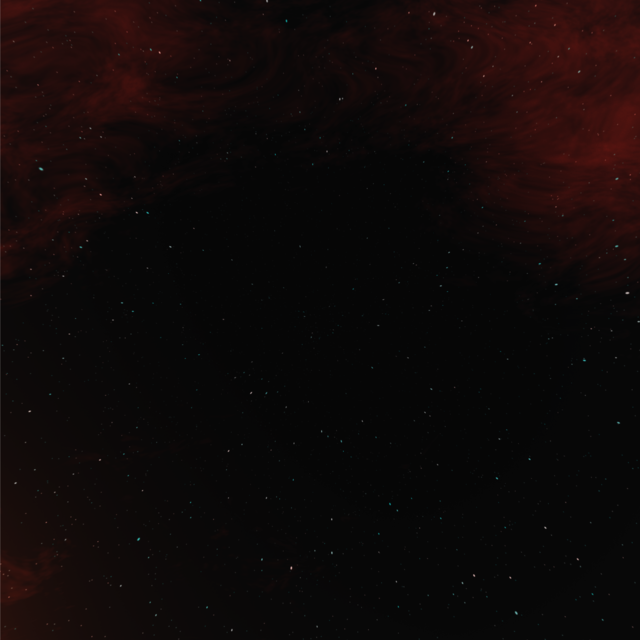
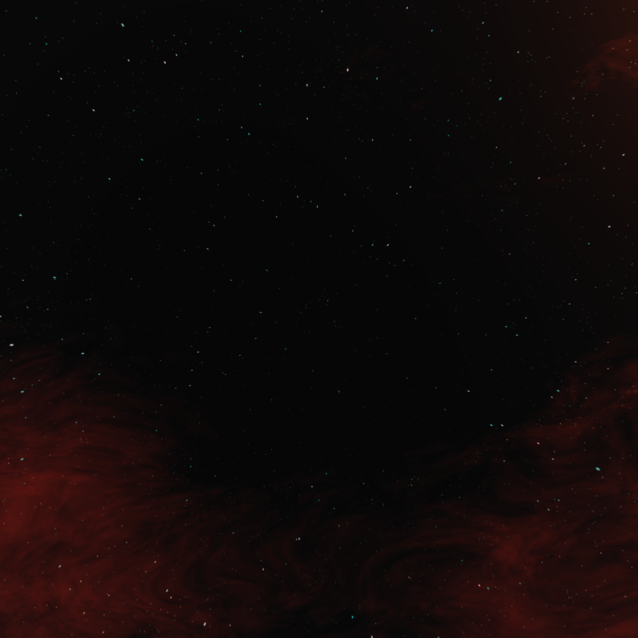
basic shadow cube map, very slow

diff --git a/Engine/src/ShadowMappingPass.h b/Engine/src/ShadowMappingPass.h
@@ -7,6 +7,9 @@
 #include "VertexShader.h"
 #include "NullPixelShader.h"
 #include "Camera.h"
+#include "ShadowRasterizer.h"
+#include "CubeTexture.h"
+#include "Viewport.h"
 namespace Rgph
 {
 	class ShadowMappingPass : public RenderQueuePass
@@ -16,13 +19,41 @@ namespace Rgph
 			:
 			RenderQueuePass(std::move(name))
 		{
-			depthStencil = std::make_unique<DepthStencilAsShaderInput>(gfx, 4u, DepthStencil::Usage::DepthForShadow);
-			AddBind(VertexShader::Resolve(gfx, L"res\\cso\\Solid_VS.cso"));
+			m_pDCTex = std::make_shared<DepthCubeTexure>(gfx, size, 4u);
+			AddBind(VertexShader::Resolve(gfx, L"res\\cso\\Shadow_VS.cso"));
 			AddBind(NullPixelShader::Resolve(gfx));
 			AddBind(Stencil::Resolve(gfx, Stencil::Mod::Off));
 			AddBind(Blender::Resolve(gfx, false));
-			AddBindSink<Bindable>("shadowRasterizer");
-			RegisterSource(DirectBindableSource<DepthStencil>::Make("ShadowMap", depthStencil));
+			AddBind(std::make_shared<Viewport>(gfx, (float)size, (float)size));
+			AddBind(std::make_shared<ShadowRasterizer>(gfx, 50, 2.0f, 0.1f));
+			RegisterSource(DirectBindableSource<DepthCubeTexure>::Make("ShadowMap", m_pDCTex));
+			DirectX::XMStoreFloat4x4(
+				&m_projection,
+				DirectX::XMMatrixPerspectiveLH(
+					1.0f, 1.0f, 0.5f, 500.0f
+				)
+			);
+			// +x
+			DirectX::XMStoreFloat3(&m_camDirections[0], DirectX::XMVectorSet(1.0f, 0.0f, 0.0f, 0.0f));
+			DirectX::XMStoreFloat3(&m_camUpDirections[0], DirectX::XMVectorSet(0.0f, 1.0f, 0.0f, 0.0f));
+			// -x
+			DirectX::XMStoreFloat3(&m_camDirections[1], DirectX::XMVectorSet(-1.0f, 0.0f, 0.0f, 0.0f));
+			DirectX::XMStoreFloat3(&m_camUpDirections[1], DirectX::XMVectorSet(0.0f, 1.0f, 0.0f, 0.0f));
+			// +y
+			DirectX::XMStoreFloat3(&m_camDirections[2], DirectX::XMVectorSet(0.0f, 1.0f, 0.0f, 0.0f));
+			DirectX::XMStoreFloat3(&m_camUpDirections[2], DirectX::XMVectorSet(0.0f, 0.0f, -1.0f, 0.0f));
+			// -y
+			DirectX::XMStoreFloat3(&m_camDirections[3], DirectX::XMVectorSet(0.0f, -1.0f, 0.0f, 0.0f));
+			DirectX::XMStoreFloat3(&m_camUpDirections[3], DirectX::XMVectorSet(0.0f, 0.0f, 1.0f, 0.0f));
+			// +z
+			DirectX::XMStoreFloat3(&m_camDirections[4], DirectX::XMVectorSet(0.0f, 0.0f, 1.0f, 0.0f));
+			DirectX::XMStoreFloat3(&m_camUpDirections[4], DirectX::XMVectorSet(0.0f, 1.0f, 0.0f, 0.0f));
+			// -z
+			DirectX::XMStoreFloat3(&m_camDirections[5], DirectX::XMVectorSet(0.0f, 0.0f, -1.0f, 0.0f));
+			DirectX::XMStoreFloat3(&m_camUpDirections[5], DirectX::XMVectorSet(0.0f, 1.0f, 0.0f, 0.0f));
+
+			SetDepthBuffer(m_pDCTex->GetDepthTarget(0));
+
 		}
 		void BindCamera(std::shared_ptr<Camera> cam)
 		{
@@ -30,21 +61,35 @@ namespace Rgph
 		}
 		void Execute(Graphics& gfx) const noexcept(!IS_DEBUG) override
 		{
-			depthStencil->Clear(gfx);
-			// TODO : resize the depth map when the window's size is changing
-			SIGNAL(
-				gfx.sizeSignalSM,
-				depthStencil->Resize(gfx, gfx.GetWindowWidth(), gfx.GetWindowHeight())
-			);
-			m_pShadowCamera->BindtoGFX(gfx);
-			RenderQueuePass::Execute(gfx);
+			using namespace DirectX;
+			auto camPos = m_pShadowCamera->GetPos();
+			const auto cam_pos_vec = XMLoadFloat3(&camPos);
+			gfx.SetProjection(XMLoadFloat4x4(&m_projection));
+			for (UINT i = 0; i < 6; i++)
+			{
+				auto d = m_pDCTex->GetDepthTarget(i);
+				d->Clear(gfx);
+				SetDepthBuffer(std::move(d));
+				const auto lookAt = cam_pos_vec + XMLoadFloat3(&m_camDirections[i]);
+				gfx.SetCamera(XMMatrixLookAtLH(cam_pos_vec, lookAt, XMLoadFloat3(&m_camUpDirections[i])));
+				RenderQueuePass::Execute(gfx);
+			}
 		}
 		void DumpShadowMap(Graphics& gfx, const std::string& path)
 		{
 			depthStencil->ToSurface(gfx).SaveAsFile(path);
 		}
 	private:
+		void SetDepthBuffer(std::shared_ptr<DepthStencil> ds) const
+		{
+			const_cast<ShadowMappingPass*>(this)->depthStencil = std::move(ds);
+		}
+		static constexpr UINT size = 10000u;
 		std::shared_ptr<Camera> m_pShadowCamera;
+		std::shared_ptr<DepthCubeTexure> m_pDCTex;
+		DirectX::XMFLOAT4X4 m_projection;
+		std::array<DirectX::XMFLOAT3, 6> m_camDirections;
+		std::array<DirectX::XMFLOAT3, 6> m_camUpDirections;
 	};
 
 }

diff --git a/Engine/src/CubeTexture.cpp b/Engine/src/CubeTexture.cpp
@@ -1,5 +1,6 @@
 #include "CubeTexture.h"
 #include "GfxThrowMacro.h"
+#include "DepthStencil.h"
 CubeTexture::CubeTexture(Graphics& gfx, const std::string& base_path, const std::vector<std::string>& pathes, UINT slot)
 	:
 	m_slot(slot)
@@ -51,4 +52,51 @@ void CubeTexture::Bind(Graphics& gfx) noexcept(!IS_DEBUG)
 {
 	IMPORT_INFOMAN(gfx);
 	GFX_THROW_INFO_ONLY(GetContext(gfx)->PSSetShaderResources(m_slot, 1, m_pCubeTex.GetAddressOf()));
+}
+
+DepthCubeTexure::DepthCubeTexure(Graphics& gfx, UINT size, UINT slot)
+	:
+	m_slot(slot)
+{
+	IMPORT_INFOMAN(gfx);
+	D3D11_TEXTURE2D_DESC texDesc;
+	texDesc.Width  = size;	 // in this case, we expect the all image have the same size
+	texDesc.Height = size;	 // after all, it's cube texture
+	texDesc.MipLevels = 1;
+	texDesc.ArraySize = 6;
+	texDesc.Format = DXGI_FORMAT::DXGI_FORMAT_R32_TYPELESS;;
+	texDesc.SampleDesc.Count = 1;
+	texDesc.SampleDesc.Quality = 0;
+	texDesc.Usage = D3D11_USAGE_DEFAULT;
+	texDesc.BindFlags = D3D11_BIND_SHADER_RESOURCE | D3D11_BIND_DEPTH_STENCIL;
+	texDesc.CPUAccessFlags = 0;
+	texDesc.MiscFlags = D3D11_RESOURCE_MISC_TEXTURECUBE;
+
+	Microsoft::WRL::ComPtr<ID3D11Texture2D> pTex;
+	GFX_THROW_INFO(GetDevice(gfx)->CreateTexture2D(&texDesc, nullptr, &pTex));
+	D3D11_SHADER_RESOURCE_VIEW_DESC srvDesc = {};
+	srvDesc.Format = DXGI_FORMAT_R32_FLOAT;
+	srvDesc.ViewDimension = D3D11_SRV_DIMENSION_TEXTURECUBE;
+	srvDesc.Texture2D.MostDetailedMip = 0;
+	srvDesc.Texture2D.MipLevels = 1;
+	GFX_THROW_INFO(
+		GetDevice(gfx)->CreateShaderResourceView(
+			pTex.Get(), &srvDesc, &m_pCubeTex
+		)
+	);
+	for (size_t i = 0; i < 6; i++)
+	{
+		m_depthTargets.push_back(std::make_shared<DepthStencilAsTraget>(gfx, pTex, i));
+	}
+}
+
+void DepthCubeTexure::Bind(Graphics& gfx) noexcept(!IS_DEBUG)
+{
+	IMPORT_INFOMAN(gfx);
+	GFX_THROW_INFO_ONLY(GetContext(gfx)->PSSetShaderResources(m_slot, 1, m_pCubeTex.GetAddressOf()));
+}
+
+std::shared_ptr<DepthStencilAsTraget> DepthCubeTexure::GetDepthTarget(size_t index) noexcept
+{
+	return m_depthTargets[index];
 }

diff --git a/Engine/src/DepthStencil.cpp b/Engine/src/DepthStencil.cpp
@@ -81,6 +81,27 @@ DepthStencil::DepthStencil(Graphics& gfx, bool bindShaderResource, Usage usage)
 {
 }
 
+DepthStencil::DepthStencil(Graphics& gfx, Microsoft::WRL::ComPtr<ID3D11Texture2D> pTex, UINT face)
+{
+    IMPORT_INFOMAN(gfx);
+
+    D3D11_TEXTURE2D_DESC texDesc = {};
+    pTex->GetDesc(&texDesc);
+    m_width = texDesc.Width;
+    m_height = texDesc.Height;
+
+    D3D11_DEPTH_STENCIL_VIEW_DESC dsvDesc = {};
+    dsvDesc.Format = DXGI_FORMAT_D32_FLOAT;
+    dsvDesc.Flags = 0u;
+    dsvDesc.ViewDimension = D3D11_DSV_DIMENSION_TEXTURE2DARRAY;
+    dsvDesc.Texture2DArray.MipSlice = 0u;
+    dsvDesc.Texture2DArray.ArraySize = 1u;
+    dsvDesc.Texture2DArray.FirstArraySlice = face;
+    GFX_THROW_INFO(
+        GetDevice(gfx)->CreateDepthStencilView(pTex.Get(), &dsvDesc, &m_pDSV)
+    );
+}
+
 void DepthStencil::BindAsBuffer(Graphics& gfx) noexcept(!IS_DEBUG)
 {
     GetContext(gfx)->OMSetRenderTargets(0u, nullptr, m_pDSV.Get());
@@ -245,6 +266,13 @@ DepthStencilAsTraget::DepthStencilAsTraget(Graphics& gfx)
     DepthStencil(gfx,false, Usage::DepthStencil)
 {
 }
+
+DepthStencilAsTraget::DepthStencilAsTraget(Graphics& gfx, Microsoft::WRL::ComPtr<ID3D11Texture2D> pTex, UINT face)
+    :
+    DepthStencil(gfx, std::move(pTex), face)
+{
+}
+
 
 void DepthStencilAsTraget::Bind(Graphics& gfx) noexcept(!IS_DEBUG)
 {

diff --git a/Engine/src/CubeTexture.h b/Engine/src/CubeTexture.h
@@ -1,13 +1,26 @@
 #pragma once
 #include "Bindable.h"
 #include "Surface.h"
+
+class DepthStencilAsTraget;
 class CubeTexture : public Bindable
 {
 public:
-	CubeTexture(Graphics& gfx, const std::string& base_path,  const std::vector<std::string>& paths, UINT slot = 0u);
+	CubeTexture(Graphics& gfx, const std::string& base_path, const std::vector<std::string>& paths, UINT slot = 0u);
 	void Bind(Graphics& gfx) noexcept(!IS_DEBUG) override;
 private:
 	Microsoft::WRL::ComPtr<ID3D11ShaderResourceView> m_pCubeTex;
 	UINT m_slot;
 };
 
+class DepthCubeTexure : public Bindable
+{
+public:
+	DepthCubeTexure(Graphics& gfx, UINT size, UINT slot);
+	void Bind(Graphics& gfx) noexcept(!IS_DEBUG) override;
+	std::shared_ptr<class DepthStencilAsTraget> GetDepthTarget(size_t index) noexcept;
+private:
+	UINT m_slot;
+	Microsoft::WRL::ComPtr<ID3D11ShaderResourceView> m_pCubeTex;
+	std::vector<std::shared_ptr<class DepthStencilAsTraget>> m_depthTargets;
+};

diff --git a/Engine/src/BlurOutlineRenderGraph.cpp b/Engine/src/BlurOutlineRenderGraph.cpp
@@ -33,12 +33,7 @@ namespace Rgph
 			AppendPass( std::move( pass ) );
 		}
 		{
-			shadowRasterizer = std::make_shared<ShadowRasterizer>(gfx, 0, 0.005f, 1.0f);
-			AddGlobalSource(DirectBindableSource<ShadowRasterizer>::Make("shadowRasterizer", shadowRasterizer));
-		}
-		{
 			auto pass = std::make_unique<ShadowMappingPass>( gfx, "shadowMapping" );
-			pass->SetSinkLinkage("shadowRasterizer", "$.shadowRasterizer");
 			AppendPass(std::move(pass));
 		}
 		{
@@ -204,7 +199,7 @@ namespace Rgph
 	}
 	void BlurOutlineRenderGraph::DumpShadowMap(Graphics& gfx, const std::string& path)
 	{
-		dynamic_cast<ShadowMappingPass&>(FindPassByName("shadowMapping")).DumpShadowMap(gfx, path);
+		//dynamic_cast<ShadowMappingPass&>(FindPassByName("shadowMapping")).DumpShadowMap(gfx, path);
 	}
 	void BlurOutlineRenderGraph::BindMainCamera(const Camera& cam) noexcept(!IS_DEBUG)
 	{

diff --git a/Engine/src/DepthStencil.h b/Engine/src/DepthStencil.h
@@ -23,6 +23,7 @@ public:
 protected:
 	DepthStencil(Graphics& gfx, bool bindShaderResource, UINT width, UINT height, Usage usage);	
 	DepthStencil(Graphics& gfx, bool bindShaderResource, Usage usage);
+	DepthStencil(Graphics& gfx, Microsoft::WRL::ComPtr<ID3D11Texture2D> pTex, UINT face);
 	Microsoft::WRL::ComPtr<ID3D11DepthStencilView>  m_pDSV;
 	UINT m_width;
 	UINT m_height;
@@ -45,6 +46,7 @@ class DepthStencilAsTraget : public DepthStencil
 public:
 	DepthStencilAsTraget(Graphics& gfx, UINT width, UINT height);
 	DepthStencilAsTraget(Graphics& gfx);
+	DepthStencilAsTraget(Graphics& gfx, Microsoft::WRL::ComPtr<ID3D11Texture2D> pTex, UINT face);
 	void Bind(Graphics& gfx) noexcept(!IS_DEBUG) override;
 	void Resize(Graphics& gfx, UINT width, UINT height) noexcept(!IS_DEBUG) override;
 };

diff --git a/Engine/src/Viewport.h b/Engine/src/Viewport.h
@@ -1,0 +1,23 @@
+#pragma once
+#include "Bindable.h"
+#include "GfxThrowMacro.h"
+class Viewport : public Bindable
+{
+public:
+	Viewport(Graphics& gfx, UINT width, UINT height)
+	{
+        m_Viewport.Width = (float)width;
+        m_Viewport.Height = (float)height;
+        m_Viewport.MinDepth = 0;
+        m_Viewport.MaxDepth = 1;
+        m_Viewport.TopLeftX = 0;
+        m_Viewport.TopLeftY = 0;
+	}
+    void Bind(Graphics& gfx) noexcept(!IS_DEBUG)
+    {
+        IMPORT_INFOMAN(gfx);
+        GFX_THROW_INFO_ONLY(GetContext(gfx)->RSSetViewports(1u, &m_Viewport));
+    }
+private:
+    D3D11_VIEWPORT m_Viewport{};
+};

diff --git a/Engine/src/SkyBoxPass.h b/Engine/src/SkyBoxPass.h
@@ -27,7 +27,7 @@ namespace Rgph{
 			};
 			AddBind(std::make_shared<CubeTexture>(gfx, "res\\Skybox\\", pathes));
 			AddBind(Stencil::Resolve(gfx, Stencil::Mod::DepthFirst));
-			AddBind(Sampler::Resolve(gfx, Sampler::Type::Bilinear));
+			AddBind(Sampler::Resolve(gfx, Sampler::Type::Bilinear, true));
 			AddBind(Rasterizer::Resolve(gfx, true));
 			AddBind(std::make_shared<SkyBoxCbuf>(gfx));
 			AddBind(PixelShader::Resolve(gfx, L"res\\cso\\Skybox_PS.cso"));

diff --git a/Engine/src/ShadowCamCbuf.cpp b/Engine/src/ShadowCamCbuf.cpp
@@ -13,9 +13,10 @@ void ShadowCamCbuf::Bind(Graphics& gfx) noexcept(!IS_DEBUG)
 
 void ShadowCamCbuf::Update(Graphics& gfx) noexcept
 {
+	auto pos = m_pCamera->GetPos();
 	const Transform tf{
 		DirectX::XMMatrixTranspose(
-			m_pCamera->GetCameraMatrix() * m_pCamera->GetPerspectiveViewMX()
+			DirectX::XMMatrixTranslation(-pos.x,-pos.y,-pos.z)
 		)
 	};
 	m_vcbuf->Update(gfx, tf);

diff --git a/Engine/src/BindingPass.h b/Engine/src/BindingPass.h
@@ -11,7 +11,7 @@ namespace Rgph
 	protected:
 		BindingPass( std::string name,std::vector<std::shared_ptr<Bindable>> binds = {} );
 		void AddBind( std::shared_ptr<Bindable> bind ) noexcept;
-		void BindAll( Graphics& gfx ) const noexcept;
+		void BindAll( Graphics& gfx ) const noexcept(!IS_DEBUG);
 		void Finalize() override;
 	protected:
 		template<class T>

diff --git a/Engine/src/Camera.h b/Engine/src/Camera.h
@@ -19,6 +19,7 @@ public:
 	bool GetTetherdState() const noexcept;
 	void SetDeleteState(bool should_delete) noexcept;
 	bool ShouldDelete() const noexcept;
+	DirectX::XMFLOAT3 GetPos() const noexcept;
 	void SetPos(float x, float y, float z);
 	void SetPos(DirectX::XMFLOAT3 pos);
 	void Rotate(float dx, float dy) noexcept;

diff --git a/Engine/src/BindingPass.cpp b/Engine/src/BindingPass.cpp
@@ -18,7 +18,7 @@ namespace Rgph
 		binds.push_back( std::move( bind ) );
 	}
 
-	void BindingPass::BindAll( Graphics& gfx ) const noexcept
+	void BindingPass::BindAll( Graphics& gfx ) const noexcept(!IS_DEBUG)
 	{
 		BindBufferResources( gfx );
 		for( auto& bind : binds )
